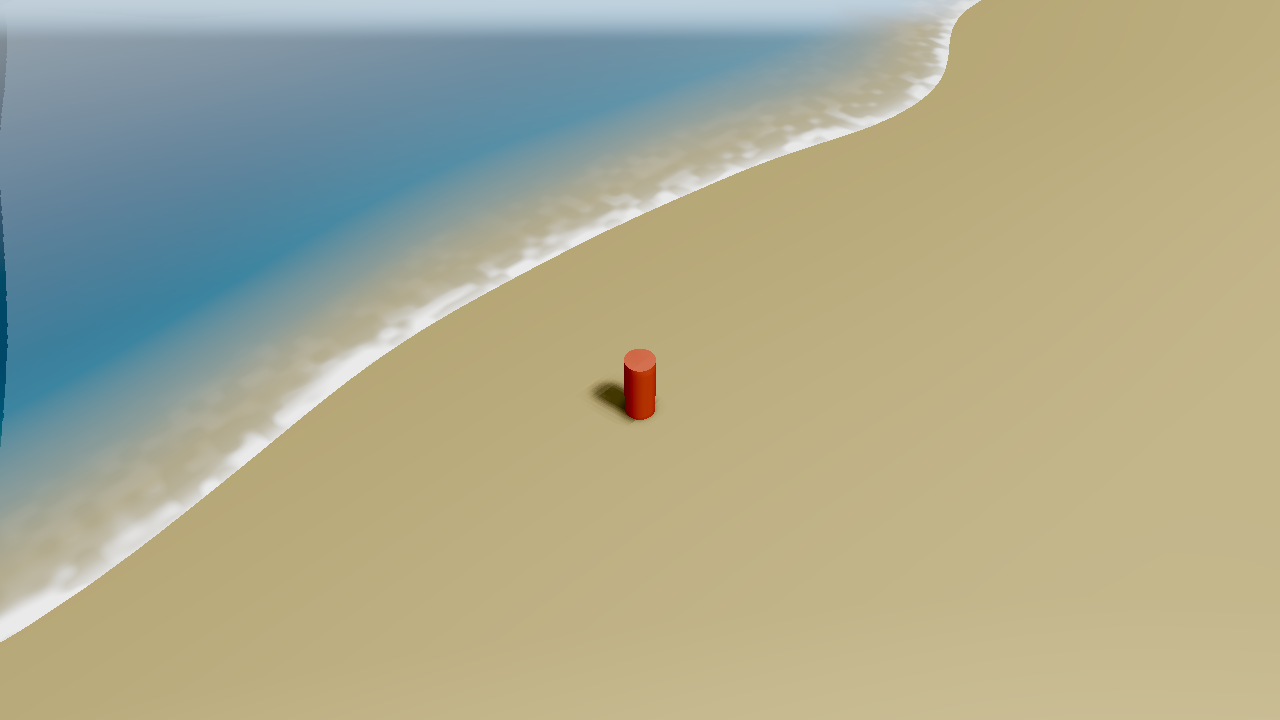
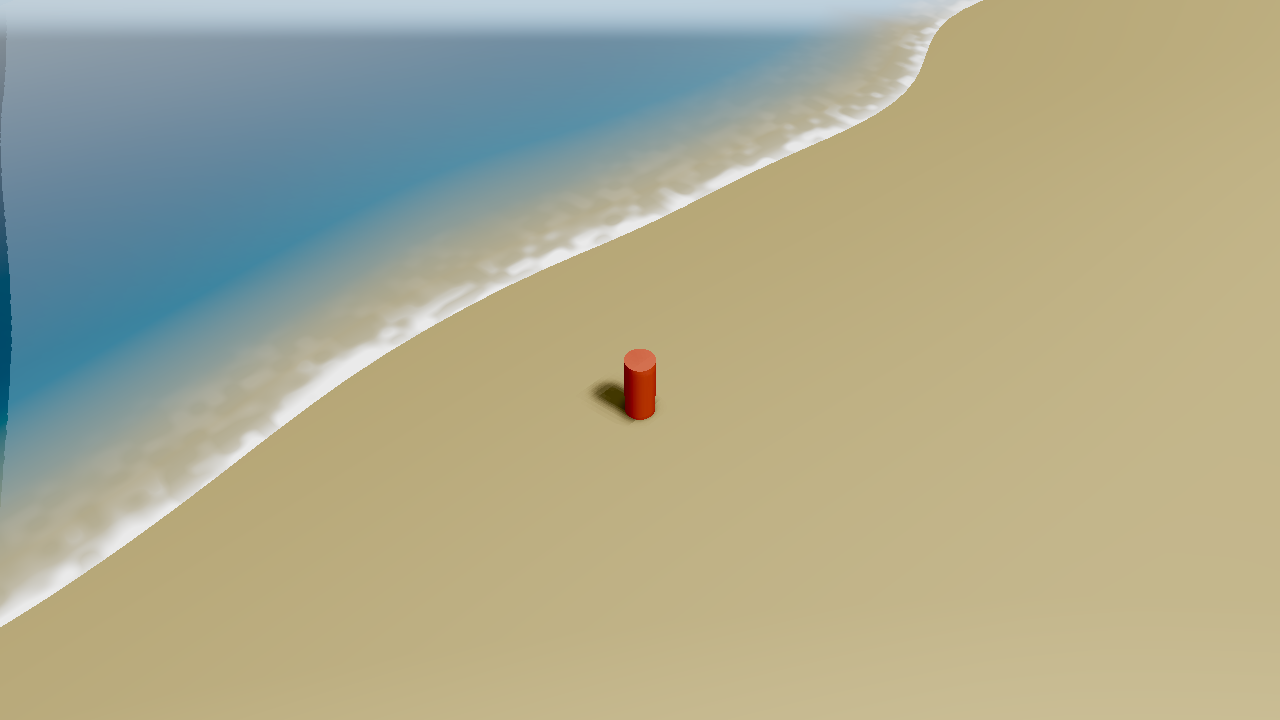
feat(p9): drive water sun and tint from time of day

diff --git a/Assets/Game/Water/Runtime/WaterSurfaceRenderer.cs b/Assets/Game/Water/Runtime/WaterSurfaceRenderer.cs
@@ -65,6 +65,10 @@ namespace Fengling.Water
         [Tooltip("预留：空间浪高扰动。当前未使用，避免 CPU 浮力采样与 GPU 波形不一致")]
         [Range(0f, 1f)] public float waveIrregularity = 0.35f;
         [Range(0f, 3f)] public float sunIntensity = 2f;
+        [Header("Time Of Day")]
+        public bool driveSunFromTime = true;
+        [Range(0f, 1f)] public float sunIntensityScale = 0.35f;
+        public bool tintByTime = true;
 
         [Header("风格：0 = 写实，1 = 风格化（奶蓝奶白）")]
         [Range(0f, 1f)] public float stylized = 0f;   // 默认写实，按 V 切换
@@ -288,6 +292,7 @@ namespace Fengling.Water
 
             _material.SetFloat("_WaterTime", water.WaterTime);
             _material.SetVector("_SunDirection", GetSunDirection());
+            ApplyTimeOfDay();
 
             // 波数组用全局数组传递：运行时 new Material 的数组属性默认只有 1 个元素，
             // SetVectorArray(16) 会被 Unity cap 到 1，导致 GPU 只拿到第 1 个波。
@@ -344,6 +349,25 @@ namespace Fengling.Water
             bool underwater = sample.Inside && camPos.y < sample.Height;
 
             _material.SetFloat("_CameraUnderwater", underwater ? 1f : 0f);
+        }
+
+        private void ApplyTimeOfDay()
+        {
+            var sun = RenderSettings.sun;
+            if (sun != null && driveSunFromTime)
+            {
+                _material.SetColor("_SunColor", sun.color);
+                _material.SetFloat("_SunIntensity", sun.intensity * sunIntensityScale);
+            }
+
+            if (tintByTime)
+            {
+                var ambient = RenderSettings.ambientLight;
+                float brightness = Mathf.Clamp01(Mathf.Max(ambient.r, Mathf.Max(ambient.g, ambient.b)) * 1.4f);
+                Color tint = Color.Lerp(new Color(0.16f, 0.20f, 0.32f), Color.white, brightness);
+                _material.SetColor("_ShallowColor", shallowColor * tint);
+                _material.SetColor("_DeepColor", deepColor * tint);
+            }
         }
 
         private static Vector4 GetSunDirection()

diff --git a/Docs/Phase2昼夜执行记录_2026-11-20.md b/Docs/Phase2昼夜执行记录_2026-11-20.md
@@ -371,4 +371,37 @@
 
 ![RendererList 阴影](images/p9_cascade_shadow.png)
 
+---
+
+## 15. 水面时间联动
+
+`WaterSurfaceRenderer` 新增：
+
+- `driveSunFromTime`
+- `sunIntensityScale`
+- `tintByTime`
+
+每帧 `ApplyTimeOfDay()`：
+
+- `_SunDirection` 继续由 `RenderSettings.sun` 推导；
+- `_SunColor` 用当前太阳颜色；
+- `_SunIntensity = sun.intensity * 0.35`；
+- `_ShallowColor` / `_DeepColor` 用环境光亮度乘冷色 tint，夜晚水色变暗。
+
+效果：
+
+- 0:00 水面从亮蓝变成暗蓝；
+- 12:00 水面高光/颜色正常；
+- 水面仍不是月亮高光，只是太阳/环境时间联动。
+
+![0:00 水面](images/p9_time_00.png)
+
+![12:00 水面](images/p9_time_12.png)
+
+已知：
+
+- 水面反射仍是平面反射，未单独跟随月亮；
+- 夜晚水色改善但还不是最终美术；
+- 六套 Preset 未接时间。
+
 
